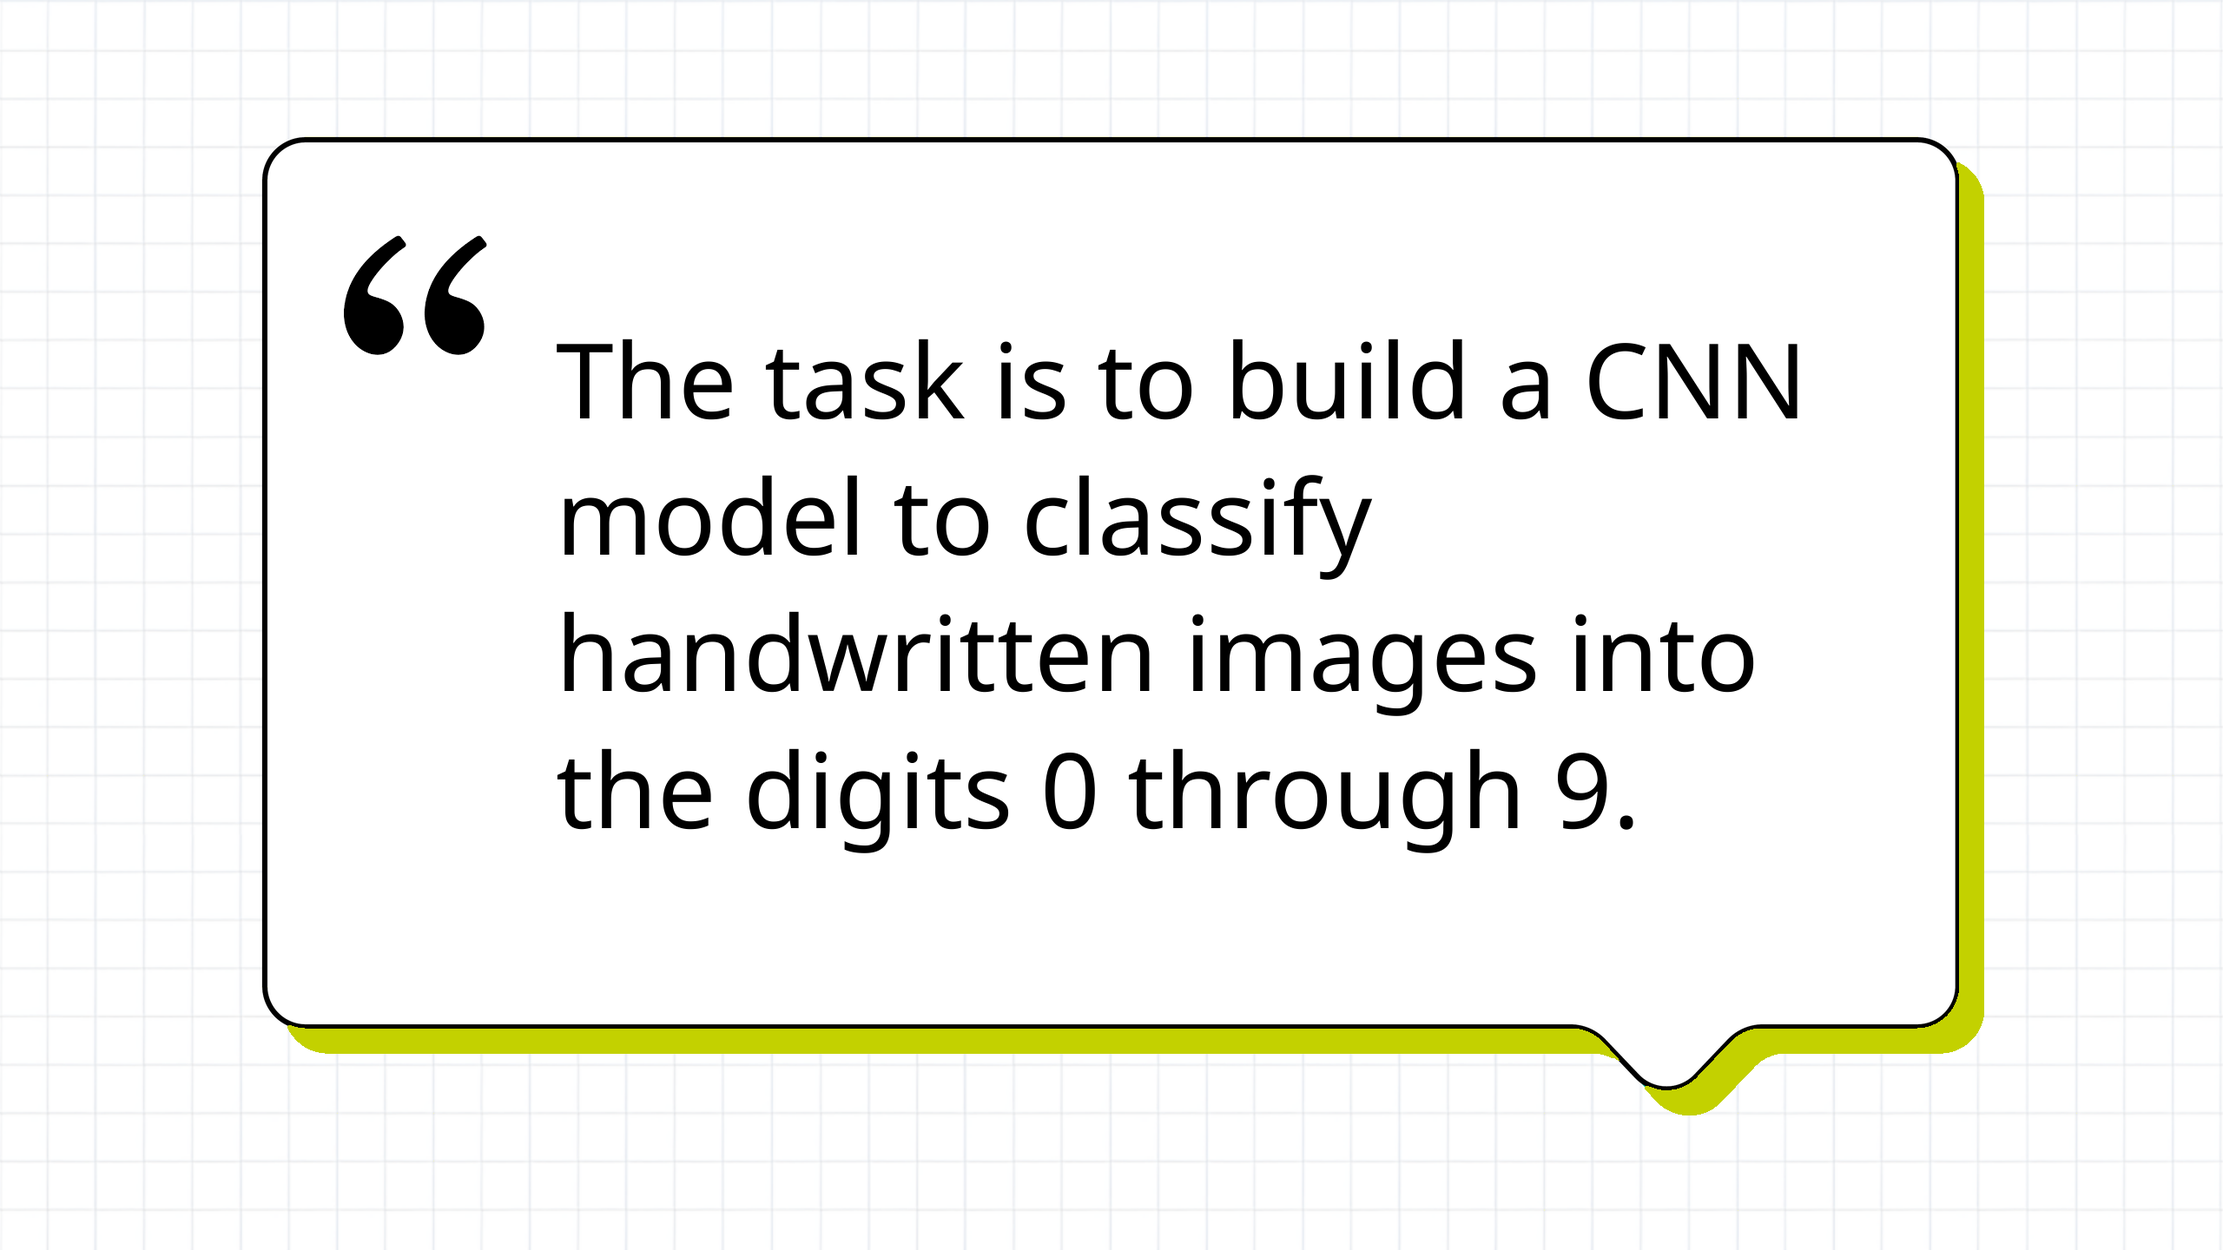
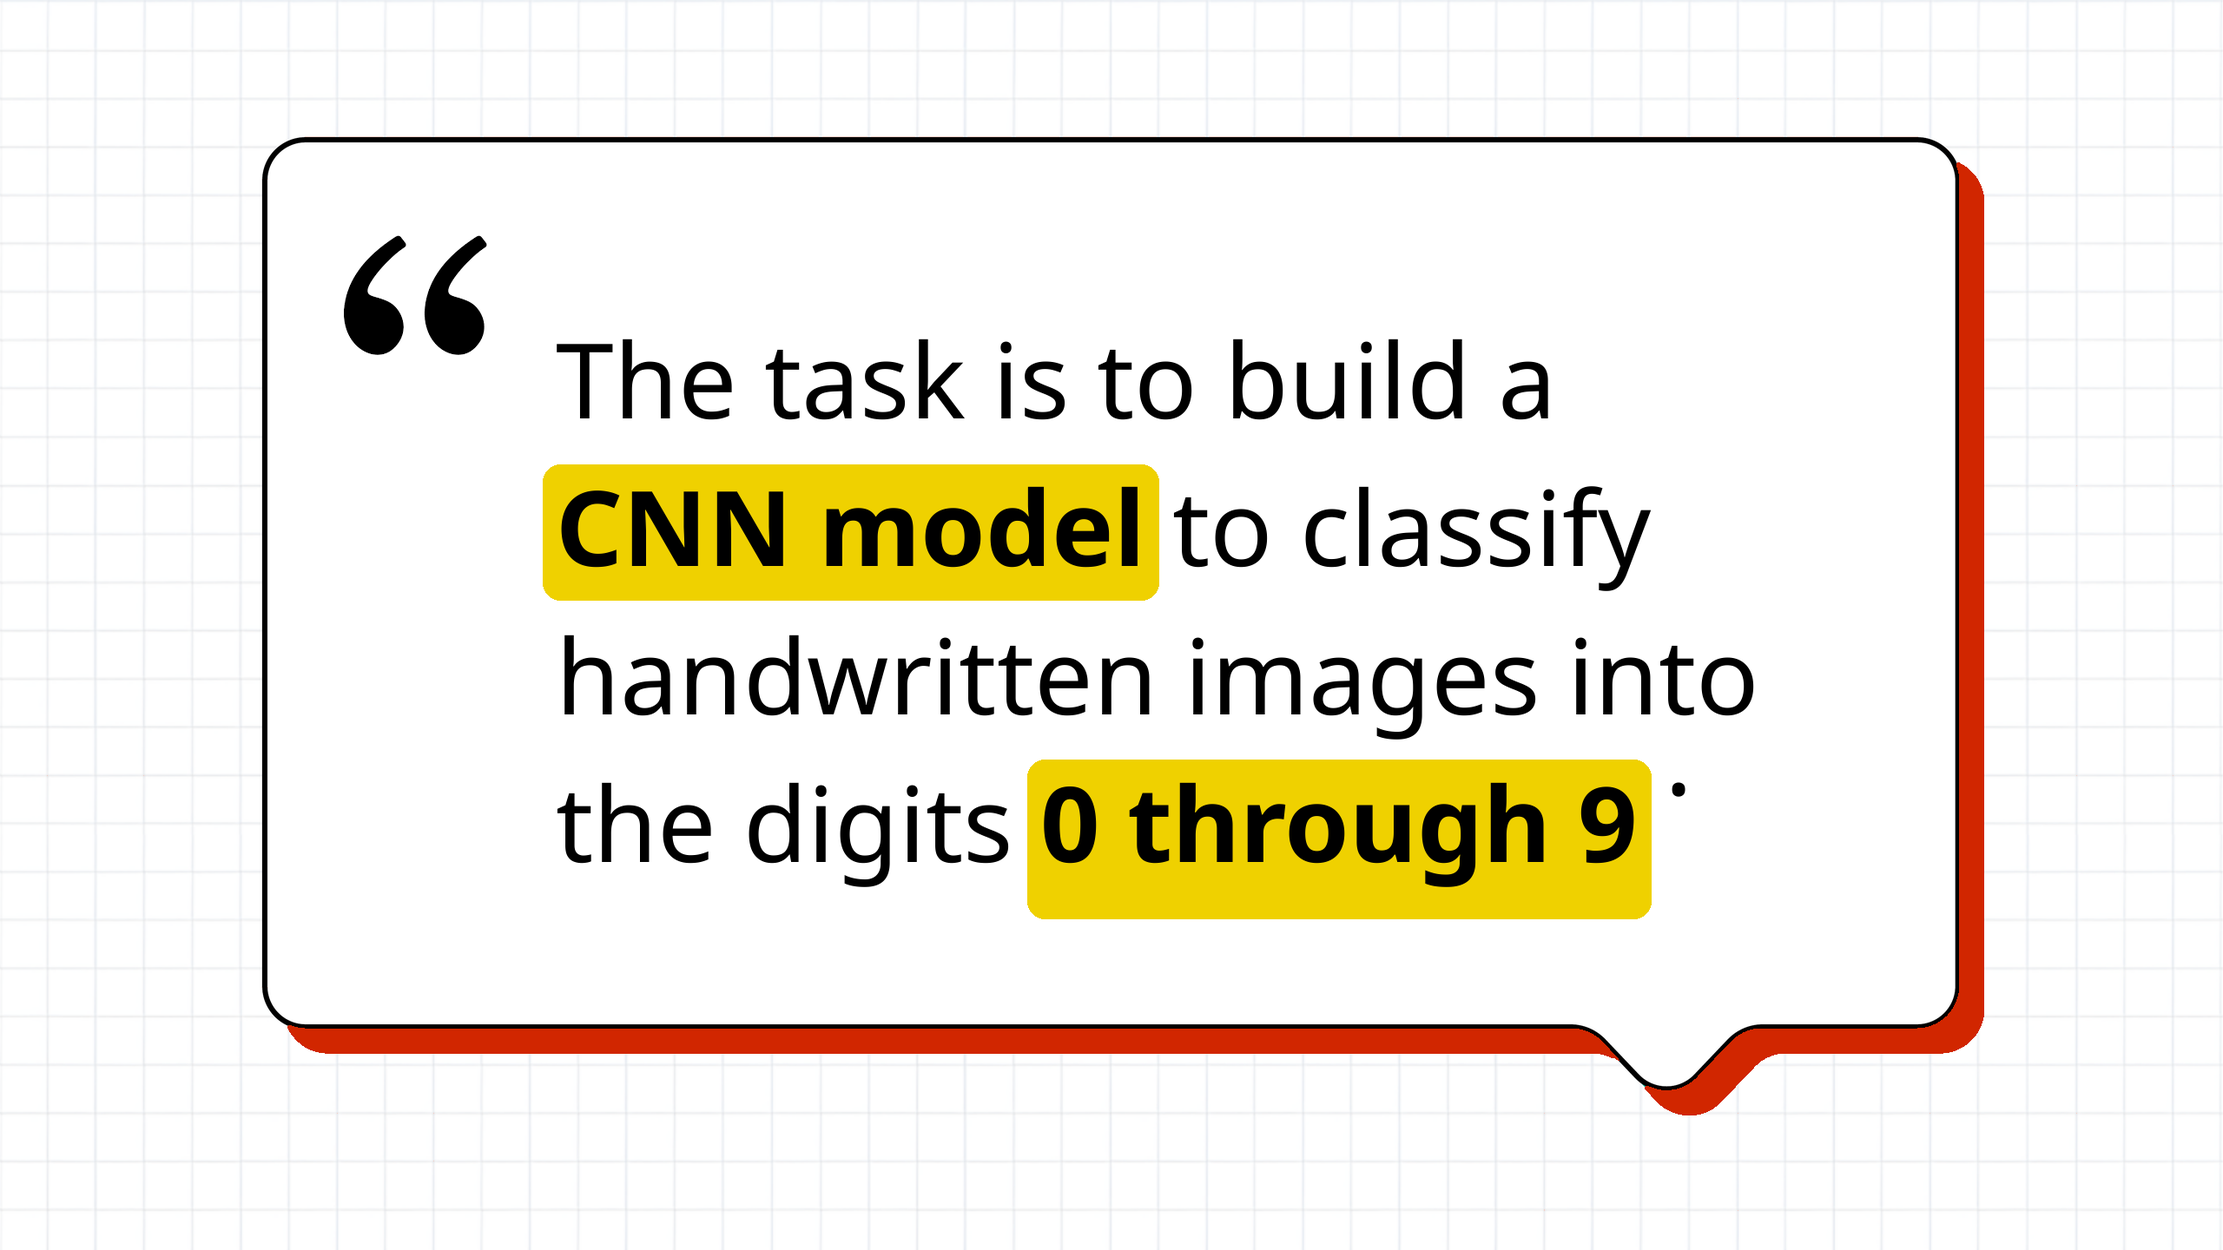
fixed all fcking highlight

diff --git a/python.py b/python.py
@@ -164,10 +164,10 @@ def wrap_markdown_text_to_fit_width(text, regular_font, bold_font, max_width):
     return lines
 
 def draw_markdown_text(image, text, x, y, regular_font, bold_font, max_width, color="black", anchor="lt", 
-                      bold_bg_color=(255, 255, 0, 200), border_radius=20):
+                      bold_bg_color=(239, 209, 0, 255), border_radius=20):
     """
     Vẽ text có markdown bold lên image với nền màu vàng cho text bold
-    FIXED: Vẽ background liền nhau cho cả cụm bold
+    FIXED: Xử lý đúng anchor, đặc biệt là "mt" (middle-top) để căn giữa
     """
     lines = wrap_markdown_text_to_fit_width(text, regular_font, bold_font, max_width)
     line_height = max(get_text_height("Aa", regular_font), get_text_height("Aa", bold_font)) * 1.3
@@ -183,9 +183,9 @@ def draw_markdown_text(image, text, x, y, regular_font, bold_font, max_width, co
         start_y = y - total_height / 2
     
     # Padding cho background
-    bg_padding_x = 12  # Tăng trái phải
-    bg_padding_y_top = 20  # Padding phía trên
-    bg_padding_y_bottom = 0  # Giảm padding phía dưới
+    bg_padding_x = 15
+    bg_padding_y_top = 25
+    bg_padding_y_bottom = 0
     
     # Đảm bảo image ở chế độ RGBA
     if image.mode != 'RGBA':
@@ -194,8 +194,22 @@ def draw_markdown_text(image, text, x, y, regular_font, bold_font, max_width, co
     draw = ImageDraw.Draw(image)
     
     for line_idx, line in enumerate(lines):
-        current_x = x
         line_y = start_y + (line_idx * line_height)
+        
+        # FIXED: Tính toán vị trí x cho từng dòng dựa trên anchor
+        if anchor == "mt":
+            # Căn giữa: tính tổng width của dòng và bắt đầu từ giữa
+            total_line_width = 0
+            for word, is_bold in line:
+                font_to_use = bold_font if is_bold else regular_font
+                total_line_width += get_text_width(word, font_to_use)
+                if word != line[-1][0]:  # Không phải từ cuối
+                    total_line_width += get_text_width(" ", font_to_use)
+            
+            current_x = x - (total_line_width / 2)  # Bắt đầu từ nửa trái của tổng width
+        else:
+            # Left align
+            current_x = x
         
         # Nhóm các từ liên tiếp cùng định dạng (bold/normal)
         grouped_parts = []
@@ -229,9 +243,9 @@ def draw_markdown_text(image, text, x, y, regular_font, bold_font, max_width, co
             # Vẽ background cho cả nhóm nếu là bold
             if is_bold:
                 bg_x1 = int(current_x - bg_padding_x)
-                bg_y1 = int(line_y - bg_padding_y_top)  # Dùng padding top
+                bg_y1 = int(line_y - bg_padding_y_top)
                 bg_x2 = int(current_x + group_width + bg_padding_x)
-                bg_y2 = int(line_y + group_height + bg_padding_y_bottom)  # Dùng padding bottom
+                bg_y2 = int(line_y + group_height + bg_padding_y_bottom)
                 
                 # Tạo layer tạm cho background
                 overlay = Image.new('RGBA', image.size, (0, 0, 0, 0))
@@ -245,7 +259,7 @@ def draw_markdown_text(image, text, x, y, regular_font, bold_font, max_width, co
                 image = Image.alpha_composite(image, overlay)
                 draw = ImageDraw.Draw(image)
             
-            # Vẽ text của nhóm
+            # Vẽ text của nhóm với anchor="lt" vì đã tính toán vị trí x rồi
             draw.text((current_x, line_y), group_text, fill=color, font=font_to_use, anchor="lt")
             current_x += group_width
             
@@ -287,6 +301,38 @@ def wrap_text_to_fit_width(text, font, max_width):
     total_height = len(lines) * line_height * 1.2
     return lines, int(total_height)
 
+def draw_mixed_text_with_markdown(image, text, x, y, regular_font, bold_font, max_width, color="black", anchor="lt"):
+    """
+    Hàm mới: Vẽ text với tự động detect markdown và fallback về text thường
+    FIXED: Xử lý đúng anchor cho cả trường hợp có và không có markdown
+    """
+    # Kiểm tra xem có markdown không
+    if '**' in text:
+        # Có markdown, dùng draw_markdown_text
+        return draw_markdown_text(image, text, x, y, regular_font, bold_font, max_width, color, anchor)
+    else:
+        # Không có markdown, dùng cách cũ nhưng FIXED anchor
+        lines, total_height = wrap_text_to_fit_width(text, regular_font, max_width)
+        draw = ImageDraw.Draw(image)
+        
+        # Điều chỉnh y dựa trên anchor - FIXED LOGIC
+        if anchor == "mt":
+            # Với "mt", text được căn giữa theo chiều ngang tại x
+            start_y = y
+        elif anchor == "lt":
+            start_y = y
+        else:
+            start_y = y - total_height / 2
+        
+        line_height = draw.textbbox((0, 0), "Aa", font=regular_font)[3] * 1.2
+        
+        for i, line in enumerate(lines):
+            line_y = start_y + (i * line_height)
+            # FIXED: Sử dụng đúng anchor được truyền vào
+            draw.text((x, line_y), line, fill=color, font=regular_font, anchor=anchor)
+        
+        return image, total_height
+    
 # ==============================================================================
 # --- HÀM CHÍNH ---
 # ==============================================================================
@@ -312,26 +358,41 @@ def paste_emoji_image(base_img, emoji_char, pos, size, emoji_dir):
     return base_img
 
 def add_data_for_opening(image_to_draw_on, data, font_dir):
+    """UPDATED: Giữ nguyên layout gốc nhưng hỗ trợ markdown"""
     title_text = data['title']
-    font_for_title = load_font(font_dir, "NotoSans-Bold.ttf", 150)
-    draw = ImageDraw.Draw(image_to_draw_on)
+    font_regular = load_font(font_dir, "NotoSans-Regular.ttf", 150)
+    font_bold = load_font(font_dir, "NotoSans-Bold.ttf", 150)
+    
+    # Chuyển đổi sang RGBA nếu cần
+    if image_to_draw_on.mode != 'RGBA':
+        image_to_draw_on = image_to_draw_on.convert('RGBA')
+    
     text_position_x = image_to_draw_on.width / 2
     text_position_y = 450
     max_width = 2000
-    text_lines, total_height = wrap_text_to_fit_width(title_text, font_for_title, max_width)
-    start_y = text_position_y - (total_height / 2)
-    line_height = draw.textbbox((0, 0), "Aa", font_for_title)[3] * 1.2
-    for i, line in enumerate(text_lines):
-        line_y = start_y + (i * line_height)
-        draw.text((text_position_x, line_y), line, fill="black", font=font_for_title, anchor="mt")
+    
+    # Sử dụng hàm mixed để tự động detect markdown
+    image_to_draw_on, _ = draw_mixed_text_with_markdown(
+        image_to_draw_on, title_text, text_position_x, text_position_y,
+        font_regular, font_bold, max_width, color="black", anchor="mt"
+    )
+    
     return image_to_draw_on
 
 def add_data_for_definition(image_to_draw_on, data, font_dir):
+    """UPDATED: Giữ nguyên layout gốc nhưng hỗ trợ markdown"""
     definition_text = data.get('definition', '')
     term = data.get('term', '')
     
-    font_for_term = load_font(font_dir, "NotoSans-Bold.ttf", 100)
-    font_for_definition = load_font(font_dir, "NotoSans-Regular.ttf", 60)
+    font_term_regular = load_font(font_dir, "NotoSans-Regular.ttf", 100)
+    font_term_bold = load_font(font_dir, "NotoSans-Bold.ttf", 100)
+    font_def_regular = load_font(font_dir, "NotoSans-Regular.ttf", 60)
+    font_def_bold = load_font(font_dir, "NotoSans-Bold.ttf", 60)
+    
+    # Chuyển đổi sang RGBA nếu cần
+    if image_to_draw_on.mode != 'RGBA':
+        image_to_draw_on = image_to_draw_on.convert('RGBA')
+    
     draw = ImageDraw.Draw(image_to_draw_on)
 
     emoji_char = data.get('emoji', '😀')
@@ -341,67 +402,110 @@ def add_data_for_definition(image_to_draw_on, data, font_dir):
     emoji_y = int(image_to_draw_on.height / 2 - 300)
     image_to_draw_on = paste_emoji_image(image_to_draw_on, emoji_char, (emoji_x, emoji_y), emoji_size, emoji_dir)
 
+    # Term với markdown support
     term_x = 250
     term_y = 300
-    draw.text((term_x, term_y), term, fill="black", font=font_for_term, anchor="lt")
+    max_width_term = 1400
+    image_to_draw_on, _ = draw_mixed_text_with_markdown(
+        image_to_draw_on, term, term_x, term_y,
+        font_term_regular, font_term_bold, max_width_term, color="black", anchor="lt"
+    )
 
+    # Definition với markdown support  
     def_x = 250
     def_y = 500
-    max_width = 1400
-    def_lines, _ = wrap_text_to_fit_width(definition_text, font_for_definition, max_width)
-    line_height = draw.textbbox((0, 0), "Aa", font_for_definition)[3] * 1.3
-    
-    for i, line in enumerate(def_lines):
-        line_y = def_y + (i * line_height)
-        draw.text((def_x, line_y), line, fill="black", font=font_for_definition, anchor="lt")
+    max_width_def = 1400
+    image_to_draw_on, _ = draw_mixed_text_with_markdown(
+        image_to_draw_on, definition_text, def_x, def_y,
+        font_def_regular, font_def_bold, max_width_def, color="black", anchor="lt"
+    )
     
     return image_to_draw_on
 
 def add_data_for_chapter(image_to_draw_on, data, font_dir):
+    """UPDATED: Giữ nguyên layout gốc nhưng hỗ trợ markdown"""
     title_text = data['title']
-    font_for_title = load_font(font_dir, "NotoSans-Bold.ttf", 180)
-    draw = ImageDraw.Draw(image_to_draw_on)
+    font_regular = load_font(font_dir, "NotoSans-Regular.ttf", 180)
+    font_bold = load_font(font_dir, "NotoSans-Bold.ttf", 180)
+    
+    # Chuyển đổi sang RGBA nếu cần
+    if image_to_draw_on.mode != 'RGBA':
+        image_to_draw_on = image_to_draw_on.convert('RGBA')
+    
     text_position_x = image_to_draw_on.width / 2 - image_to_draw_on.width / 6
     text_position_y = image_to_draw_on.height / 2
     max_width = 1500
-    text_lines, total_height = wrap_text_to_fit_width(title_text, font_for_title, max_width)
+    
+    # Điều chỉnh start_y như code gốc
+    lines_temp, total_height = wrap_text_to_fit_width(title_text.replace('**', ''), font_regular, max_width)
     start_y = text_position_y - (total_height / 2 - 50)
-    line_height = draw.textbbox((0, 0), "Aa", font_for_title)[3] * 1.2
-    for i, line in enumerate(text_lines):
-        line_y = start_y + (i * line_height)
-        draw.text((text_position_x, line_y), line, fill="black", font=font_for_title, anchor="lt")
+    
+    image_to_draw_on, _ = draw_mixed_text_with_markdown(
+        image_to_draw_on, title_text, text_position_x, start_y,
+        font_regular, font_bold, max_width, color="black", anchor="lt"
+    )
+    
     return image_to_draw_on
 
 def add_data_for_quote(image_to_draw_on, data, font_dir):
+    """UPDATED: Giữ nguyên layout gốc nhưng hỗ trợ markdown"""
     title_text = data['title']
-    font_for_title = load_font(font_dir, "NotoSans-Regular.ttf", 120)
-    draw = ImageDraw.Draw(image_to_draw_on)
+    font_regular = load_font(font_dir, "NotoSans-Regular.ttf", 120)
+    font_bold = load_font(font_dir, "NotoSans-Bold.ttf", 120)
+    
+    # Chuyển đổi sang RGBA nếu cần
+    if image_to_draw_on.mode != 'RGBA':
+        image_to_draw_on = image_to_draw_on.convert('RGBA')
+    
     text_position_x = image_to_draw_on.width / 4
     text_position_y = 390
     max_width = 1500
-    text_lines, total_height = wrap_text_to_fit_width(title_text, font_for_title, max_width)
-    start_y = text_position_y
-    line_height = draw.textbbox((0, 0), "Aa", font_for_title)[3] * 1.2
-    for i, line in enumerate(text_lines):
-        line_y = start_y + (i * line_height)
-        draw.text((text_position_x, line_y), line, fill="black", font=font_for_title, anchor="lt")
+    
+    image_to_draw_on, _ = draw_mixed_text_with_markdown(
+        image_to_draw_on, title_text, text_position_x, text_position_y,
+        font_regular, font_bold, max_width, color="black", anchor="lt"
+    )
+    
     return image_to_draw_on
 
 def add_data_for_question(image_to_draw_on, data, font_dir):
+    """FIXED: Căn giữa text đúng cách"""
     title_text = data['title']
-    font_for_title = load_font(font_dir, "NotoSans-Bold.ttf", 150)
-    draw = ImageDraw.Draw(image_to_draw_on)
-    text_position_x = image_to_draw_on.width / 2
+    font_regular = load_font(font_dir, "NotoSans-Regular.ttf", 150) 
+    font_bold = load_font(font_dir, "NotoSans-Bold.ttf", 150)
+    
+    # Chuyển đổi sang RGBA nếu cần
+    if image_to_draw_on.mode != 'RGBA':
+        image_to_draw_on = image_to_draw_on.convert('RGBA')
+    
+    text_position_x = image_to_draw_on.width / 2  # Vị trí giữa theo chiều ngang
     text_position_y = 450
     max_width = 2000
-    text_lines,_ = wrap_text_to_fit_width(title_text, font_for_title, max_width)
-    line_height = draw.textbbox((0, 0), "Aa", font_for_title)[3] * 1.2
-    for i, line in enumerate(text_lines):
-        line_y = text_position_y + (i * line_height)
-        draw.text((text_position_x, line_y), line, fill="black", font=font_for_title, anchor="mt")
+    
+    # Kiểm tra có markdown không
+    if '**' in title_text:
+        # Có markdown - sử dụng hàm draw_markdown_text
+        image_to_draw_on, _ = draw_markdown_text(
+            image_to_draw_on, title_text, text_position_x, text_position_y,
+            font_regular, font_bold, max_width, color="black", anchor="mt"
+        )
+    else:
+        # Không có markdown - vẽ text thường và căn giữa thủ công
+        lines, total_height = wrap_text_to_fit_width(title_text, font_regular, max_width)
+        draw = ImageDraw.Draw(image_to_draw_on)
+        
+        line_height = draw.textbbox((0, 0), "Aa", font=font_regular)[3] * 1.2
+        start_y = text_position_y
+        
+        for i, line in enumerate(lines):
+            line_y = start_y + (i * line_height)
+            # Căn giữa từng dòng
+            draw.text((text_position_x, line_y), line, fill="black", font=font_regular, anchor="mt")
+    
     return image_to_draw_on
 
 def add_data_for_side_by_side(image_to_draw_on, data, font_dir):
+    """UPDATED: Giữ nguyên layout gốc nhưng hỗ trợ markdown"""
     left_data = data.get('left', {})
     right_data = data.get('right', {})
 
@@ -429,7 +533,7 @@ def add_data_for_side_by_side(image_to_draw_on, data, font_dir):
     # Sử dụng hàm draw_markdown_text với nền màu vàng
     image_to_draw_on, _ = draw_markdown_text(image_to_draw_on, left_content_text, content_x_left, content_y_left, 
                       font_regular, font_bold, max_width_left, color="black", anchor="lt",
-                      bold_bg_color=(255, 255, 0, 200), border_radius=8)
+                      bold_bg_color=(239, 209, 0, 255), border_radius=20)
 
     # Right side
     right_emoji_char = right_data.get('emoji', '😀')
@@ -446,7 +550,7 @@ def add_data_for_side_by_side(image_to_draw_on, data, font_dir):
     # Sử dụng hàm draw_markdown_text với nền màu vàng
     image_to_draw_on, _ = draw_markdown_text(image_to_draw_on, right_content_text, content_x_right, content_y_right, 
                       font_regular, font_bold, max_width_right, color="black", anchor="lt",
-                      bold_bg_color=(255, 255, 0, 200), border_radius=8)
+                      bold_bg_color=(239, 209, 0, 255), border_radius=20)
 
     return image_to_draw_on
 
@@ -515,33 +619,33 @@ if __name__ == "__main__":
         {
             "template": "chapter.png",
             "data": {
-                "title": "Giới thiệu về Computer Vision",
+                "title": "Giới thiệu về **Computer Vision**",
             }
         },
         {
             "template": "definition.png",
             "data": {
                 "emoji": "😀",
-                "term": "Nội dung",
-                "definition": "định nghĩa bla bla "
+                "term": "**Computer Vision**",
+                "definition": "là lĩnh vực **khoa học máy tính** nghiên cứu cách làm cho máy tính có thể **nhìn và hiểu** nội dung của hình ảnh và video"
             }
         },
         {
             "template": "chapter.png",
             "data": {
-                "title": "Các kỹ thuật",
+                "title": "Các **kỹ thuật** phổ biến",
             }
         },
         {
             "template": "quote.png",
             "data": {
-                "title": "The task is to build a CNN model to classify handwritten images into the digits 0 through 9.",
+                "title": "The task is to build a **CNN model** to classify handwritten images into the digits **0 through 9**.",
             }
         },
         {
             "template": "question.png",
             "data": {
-                "title": "Làm thế nào để cải thiện độ chính xác của mô hình CNN?",
+                "title": "Làm thế nào để cải thiện **độ chính xác** của mô hình CNN?",
             }
         },
         {
@@ -549,7 +653,7 @@ if __name__ == "__main__":
             "data": {
                 "left": {
                     "emoji": "🔢",
-                    "content": "**Vòng lặp for:** Use when the number of repetitions is **known,**"
+                    "content": "**Vòng lặp for:** Use when the number of repetitions is **known**"
                 },
                 "right": {
                     "emoji": "🧐",
